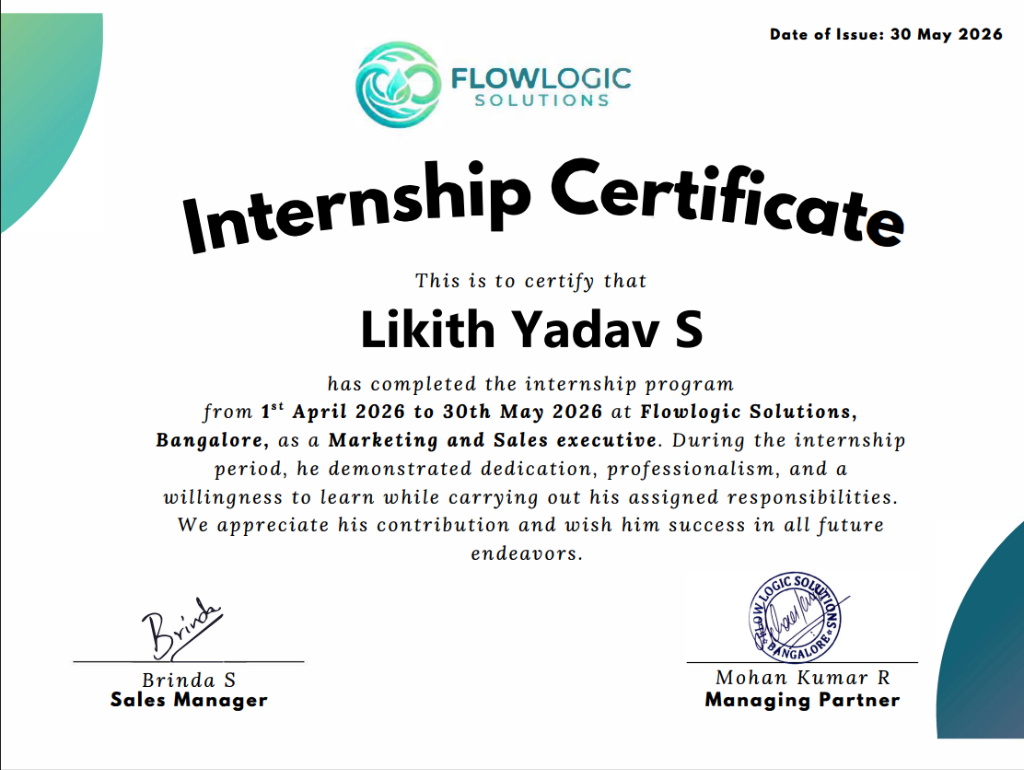
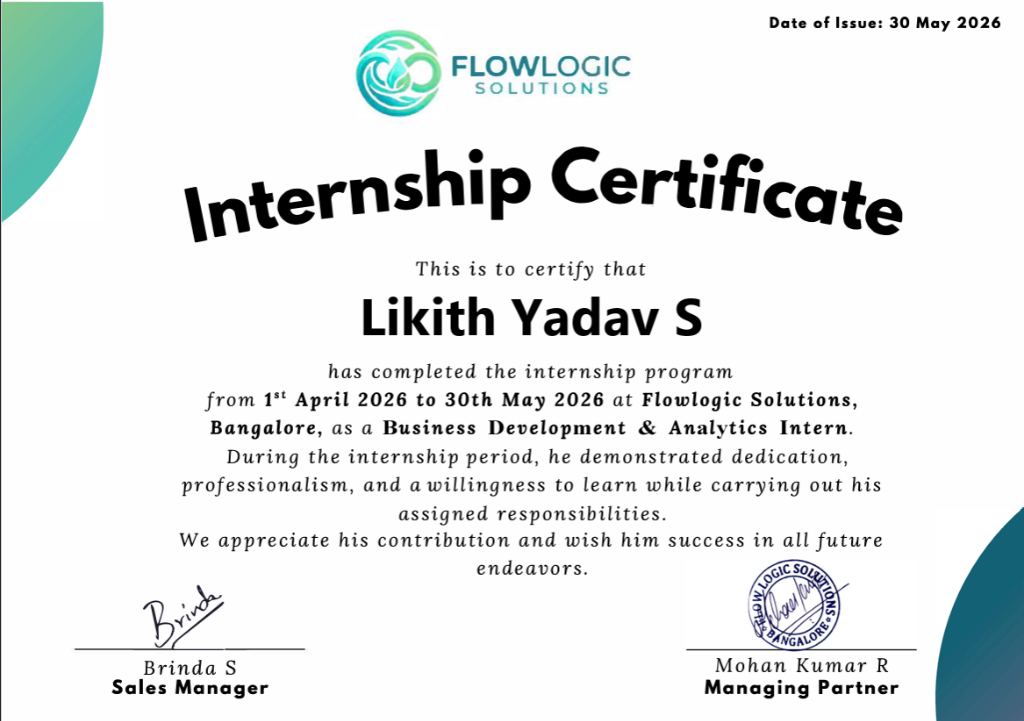
Update internship certificate image and change role to Business Analytics Intern

diff --git a/src/components/Experience/Experience.jsx b/src/components/Experience/Experience.jsx
@@ -12,7 +12,7 @@ import './Experience.css'
 const experienceData = [
   {
     id: 1,
-    role: 'Marketing and Sales Executive',
+    role: 'Business Analytics Intern',
     company: 'Flowlogic Solutions, Bangalore',
     period: '1st April 2026 — 30th May 2026',
     certificateDate: '30 May 2026',
@@ -20,7 +20,7 @@ const experienceData = [
     signatories: 'Brinda S (Sales Manager) & Mohan Kumar R (Managing Partner)',
     appreciation: 'During the internship period, he demonstrated dedication, professionalism, and a willingness to learn while carrying out his assigned responsibilities. We appreciate his contribution and wish him success in all future endeavors.',
     bullets: [
-      "Completed 2-month intensive internship program as Marketing and Sales Executive at Flowlogic Solutions, Bangalore.",
+      "Completed 2-month intensive internship program as Business Analytics Intern at Flowlogic Solutions, Bangalore.",
       "Developed and deployed the company's corporate website, including web hosting, domain setup, custom branding, and SEO optimization.",
       "Optimized IndiaMART profile and actively engaged with prospective clients to support lead generation and requirement gathering.",
       "Promoted company products at industry exhibitions while interacting with prospective clients and senior stakeholders.",
